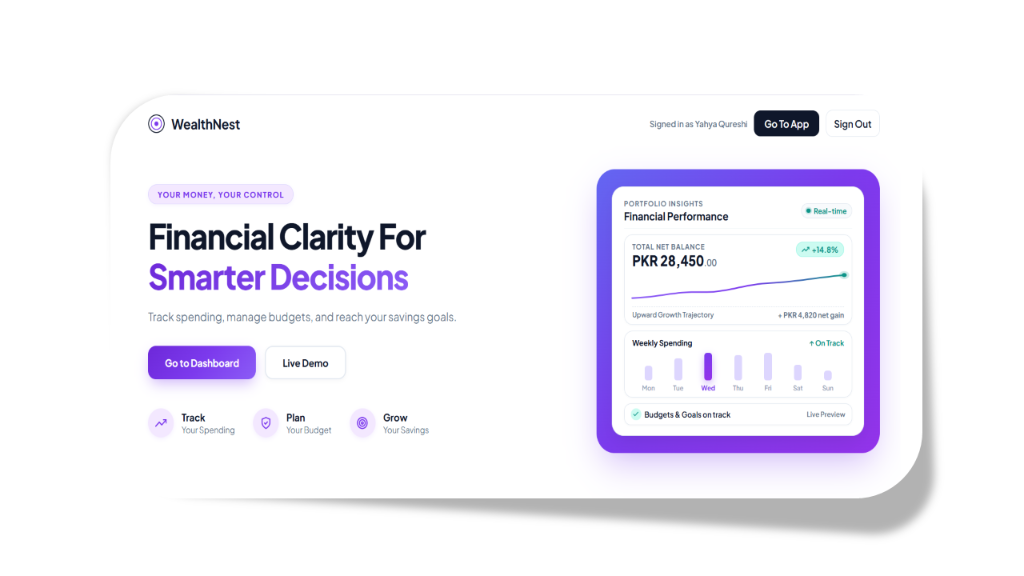
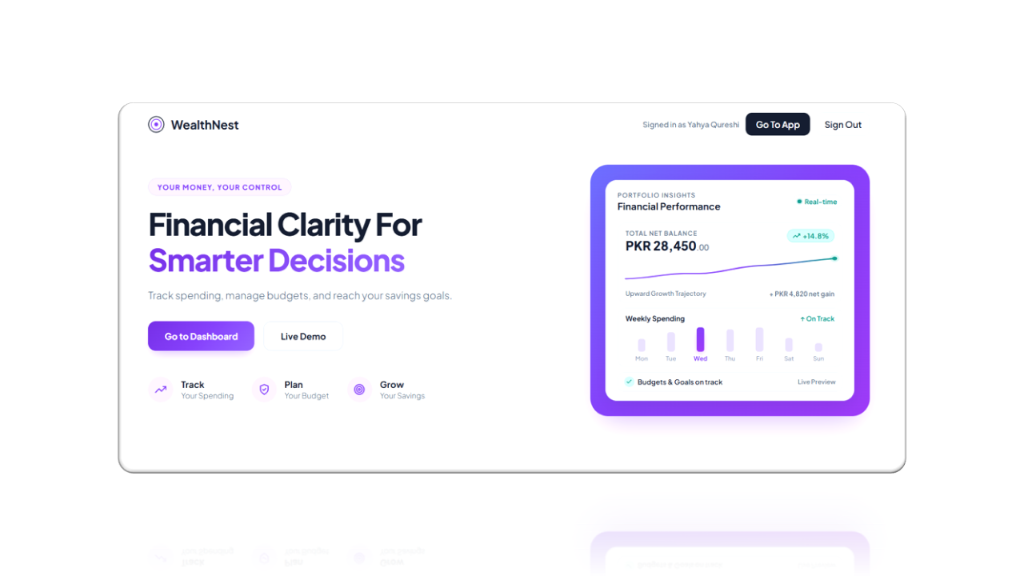
Update WealthNest card visual to new dashboard mockup with cache-buster v3

diff --git a/index.html b/index.html
@@ -512,7 +512,7 @@
       <article class="project-card" data-category="finance-app">
         <div class="project-visual">
           <span class="project-tag">Finance Application</span>
-          <img src="assets/images/wealthnest.png?v=2" alt="WealthNest - Personal Finance &amp; Wealth Tracker" loading="lazy" decoding="async" style="width:100%;height:100%;object-fit:cover;object-position:center">
+          <img src="assets/images/wealthnest.png?v=3" alt="WealthNest - Personal Finance &amp; Wealth Tracker" loading="lazy" decoding="async" style="width:100%;height:100%;object-fit:cover;object-position:center">
         </div>
         <div class="project-body">
           <div class="project-impact">Personal Finance &amp; Wealth Tracker</div>
@@ -1084,7 +1084,7 @@ const projectImagesToPreload = [
   'assets/images/combat-sports-business-insights.jpg',
   'assets/images/monte-carlo-risk-simulator.png?v=5',
   'assets/images/khyber-tobacco-company.png',
-  'assets/images/wealthnest.png?v=2',
+  'assets/images/wealthnest.png?v=3',
   'assets/images/income-statement-insights.png',
   'assets/images/logistics-operations-analysis.png',
   'assets/images/beacon-retail-financial-model.png',
